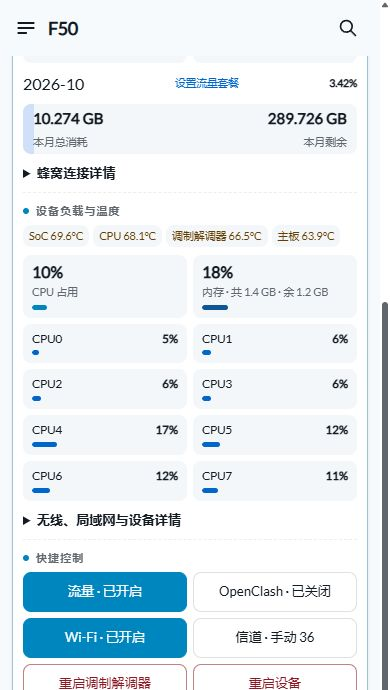
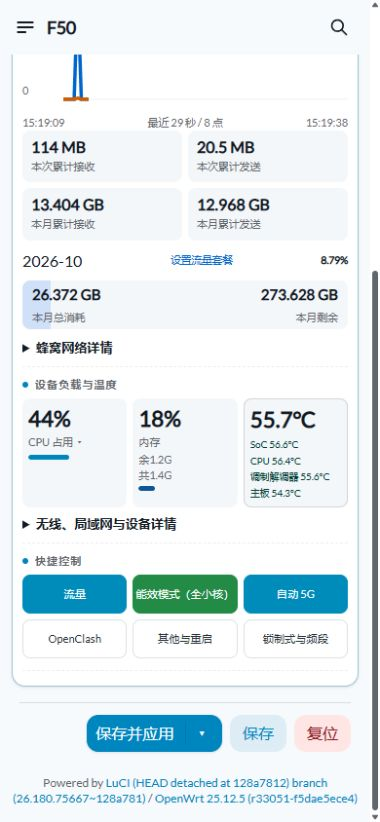
Update optional dashboard with compact mobile layout and power modes

diff --git a/extras/dashboard/home.js b/extras/dashboard/home.js
@@ -5,6 +5,7 @@
 'require f50quota5 as F50Quota';
 'require f50channel as F50Channel';
 'require f50openclash as F50OpenClash';
+'require f50power as F50Power';
 
 /* MU300 status dashboard -- the LuCI landing page (menu.d hangs it at admin/home).
  *
@@ -74,6 +75,7 @@ return view.extend({
 		this._channelDispose = F50Channel.mount(root);
 		this._quotaDispose = F50Quota.mount(root);
 		this._openclashDispose = F50OpenClash.mount(root);
+		this._powerDispose = F50Power.mount(root);
 		var self = this;
 		var intervalMs = DEFAULT_POLL_S * 1000;
 		var config = L.resolveDefault(uci.load('unisoc_modem')).then(function() {
@@ -103,6 +105,7 @@ return view.extend({
 		if (this._channelDispose) this._channelDispose();
 		if (this._quotaDispose) this._quotaDispose();
 		if (this._openclashDispose) this._openclashDispose();
+		if (this._powerDispose) this._powerDispose();
 	},
 
 	html: function() {
@@ -125,7 +128,7 @@ return view.extend({
 <div class="mud-card mud-body">
 
 <div class="mud-sec">
-  <h3>${_('Link & traffic')}</h3>
+  <h3>流量</h3>
   <div class="f50-combined-chart" style="width:100%">
     <div class="f50-rate-head">
       <div class="f50-rate-download"><b id="mud-dl">--</b><span>下行速率</span></div>
@@ -153,6 +156,7 @@ return view.extend({
     <div>
       <div class="mud-rows">
         <div class="mud-r"><span class="mud-k">IPv4 / IPv6</span><span class="mud-v" id="mud-ip">--</span></div>
+        <div class="mud-r"><span class="mud-k">手机号</span><span class="mud-v" id="mud-phone">读取中…</span></div>
         <div class="mud-r"><span class="mud-k">APN</span><span class="mud-v" id="mud-apn">--</span></div>
         <div class="mud-r"><span class="mud-k">${_('Session duration')}</span><span class="mud-v" id="mud-sess">--</span></div>
         <div class="mud-r"><span class="mud-k">${_('Registration')}</span><span class="mud-v" id="mud-reg">--</span></div>
@@ -181,7 +185,7 @@ return view.extend({
   <div class="mud-temp" id="mud-temps"></div>
   <div class="mud-kpis" style="margin-top:8px">
     <div class="mud-kpi"><b id="mud-cpu">--</b><span>${_('CPU usage')}</span><div class="mud-meter"><i id="mud-cpu-bar" style="background:var(--brand,var(--primary,#3b82f6))"></i></div></div>
-    <div class="mud-kpi"><b id="mud-ram">--</b><span>${_('Memory')} · <span class="mud-sub" id="mud-ram-sub">--</span></span><div class="mud-meter"><i id="mud-ram-bar" style="background:var(--info,#0ea5e9)"></i></div></div>
+    <div class="mud-kpi"><b id="mud-ram">--</b><span>${_('Memory')}<span class="mud-sub" id="mud-ram-sub">--</span></span><div class="mud-meter"><i id="mud-ram-bar" style="background:var(--info,#0ea5e9)"></i></div></div>
     <div class="mud-kpi"><b id="mud-disk">--</b><span>${_('Storage')}</span><div class="mud-meter"><i id="mud-disk-bar" style="background:var(--warning,#f59e0b)"></i></div></div>
     <div class="mud-kpi" id="mud-batt-kpi" style="display:none"><b id="mud-batt">--</b><span id="mud-batt-l">${_('Battery')}</span></div>
   </div>
@@ -226,9 +230,12 @@ return view.extend({
 
 <div class="mud-sec">
   <h3>${_('Quick controls')}</h3>
-  <div class="mud-ctl" style="grid-template-columns:repeat(auto-fit,minmax(150px,1fr))">
+  <div class="mud-ctl f50-primary-controls">
     <button class="mud-btn" id="mud-btn-data">流量开关</button>
+    <button class="mud-btn" id="mud-btn-power">温控模式</button>
+    <button class="mud-btn" id="mud-btn-5g">自动 5G</button>
     <button class="mud-btn" id="mud-btn-openclash" aria-pressed="false">OpenClash · 读取状态…</button>
+    <button class="mud-btn" id="mud-btn-other" aria-expanded="false">其他与重启</button>
     <button class="mud-btn" id="mud-btn-wifi">Wi-Fi 开关</button>
     <button class="mud-btn" id="mud-btn-channel">信道设置</button>
     <button class="mud-btn warn" id="mud-btn-modem">${_('Restart modem')}</button>
@@ -305,18 +312,83 @@ return view.extend({
    var d=E('details',{class:'f50-details',style:'margin:16px 0'},[E('summary',{style:'cursor:pointer;font-weight:600'},title)]);
    before.parentNode.insertBefore(d,before); nodes.forEach(function(n){d.appendChild(n);}); return d;
   }
-  var secs=root.querySelectorAll('.mud-body > .mud-sec'),link=secs[0],device=secs[1];
+  var secs=root.querySelectorAll('.mud-body > .mud-sec'),link=secs[0],device=secs[1],quick=secs[2],locks=secs[3];
+  var heroRight=root.querySelector('.mud-hero-r');
+  heroRight.prepend(E('div',{class:'f50-signal-title'},'信号详情'));
   var qci=root.querySelector('#mud-qci').parentNode;
-  qci.style.cssText='margin:8px 0;font-size:1.05em';
-  link.insertBefore(qci,link.querySelector('.f50-combined-chart'));
-  var cols=link.querySelector('.mud-cols');wrap([cols],'蜂窝连接详情',cols);
+  qci.classList.add('f50-qci');heroRight.appendChild(qci);
+  var cols=link.querySelector('.mud-cols');var cellLine=root.querySelector('#mud-cellline');cellLine.replaceWith(E('div',{class:'f50-hero-band',id:'mud-hero-band'},'--'));cols.prepend(E('div',{class:'f50-cell-detail'},[E('b',{},'基站与小区'),cellLine]));wrap([cols],'蜂窝网络详情',cols);
   device.querySelector('h3').textContent='设备负载与温度';
-  var kpis=device.querySelector('.mud-kpis'),extra=E('div',{class:'mud-kpis',style:'margin-top:12px'});
+  var kpis=device.querySelector('.mud-kpis'),extra=E('div',{class:'mud-kpis'});
   ['disk','batt'].forEach(function(id){extra.appendChild(root.querySelector('#mud-'+id).parentNode);});
-  kpis.insertAdjacentElement('afterend',E('div',{id:'mud-cpu-cores',class:'f50-core-grid','aria-label':'各 CPU 核心占用'}));
-  var freq=root.querySelector('#mud-freqs'),dcols=device.querySelector('.mud-cols'),leases=root.querySelector('#mud-leases'),android=root.querySelector('#mud-btn-android').parentNode;
-  var details=wrap([extra,freq,dcols,leases,android],'无线、局域网与设备详情',freq);
-  var heroRight=root.querySelector('.mud-hero-r');wrap([heroRight],'信号详情',heroRight);
+  var temp=E('div',{class:'mud-kpi f50-average-temp'},[E('b',{id:'mud-temp-average'},'--'),E('span',{},'')]);
+  kpis.appendChild(temp);
+  var temps=root.querySelector('#mud-temps');temp.appendChild(temps);
+  var cores=E('div',{id:'mud-cpu-cores',class:'f50-core-grid','aria-label':'各 CPU 核心占用'});
+  var freq=root.querySelector('#mud-freqs');
+  var cpuDetails=E('div',{id:'f50-cpu-details',hidden:true,class:'f50-cpu-details'},[cores,freq]);
+  kpis.insertAdjacentElement('afterend',cpuDetails);
+  var cpuCard=root.querySelector('#mud-cpu').parentNode;
+  cpuCard.setAttribute('role','button');cpuCard.setAttribute('tabindex','0');cpuCard.setAttribute('aria-expanded','false');cpuCard.setAttribute('aria-controls','f50-cpu-details');cpuCard.classList.add('f50-cpu-toggle');
+  cpuCard.onclick=function(){cpuDetails.hidden=!cpuDetails.hidden;cpuCard.setAttribute('aria-expanded',String(!cpuDetails.hidden));};
+  cpuCard.onkeydown=function(e){if(e.key==='Enter'||e.key===' '){e.preventDefault();cpuCard.click();}};
+  var dcols=device.querySelector('.mud-cols'),leases=root.querySelector('#mud-leases'),android=root.querySelector('#mud-btn-android').parentNode;
+  wrap([extra,dcols,leases,android],'无线、局域网与设备详情',dcols);
+  var other=E('div',{id:'f50-other-controls',class:'mud-ctl f50-other-controls',hidden:true});quick.appendChild(other);
+  ['wifi','channel','modem','reboot','android'].forEach(function(id){other.appendChild(root.querySelector('#mud-btn-'+id));});android.remove();
+  var otherBtn=root.querySelector('#mud-btn-other');otherBtn.setAttribute('aria-controls','f50-other-controls');
+  otherBtn.onclick=function(){other.hidden=!other.hidden;otherBtn.setAttribute('aria-expanded',String(!other.hidden));};
+  var lockTable=locks.querySelector('.mud-scroll');locks.querySelector('h3').remove();
+  var lockContent=E('div',{id:'f50-lock-details',hidden:true},[E('a',{class:'mud-btn',href:L.url('admin','modem','locks'),style:'display:inline-block;margin:6px 0'},'设置制式与频段'),lockTable]);
+  var lockBtn=E('button',{class:'mud-btn',id:'mud-btn-locks','aria-expanded':'false','aria-controls':'f50-lock-details'},'锁制式与频段');
+  root.querySelector('.f50-primary-controls').appendChild(lockBtn);locks.appendChild(lockContent);
+  lockBtn.onclick=function(){lockContent.hidden=!lockContent.hidden;lockBtn.setAttribute('aria-expanded',String(!lockContent.hidden));};
+  root.appendChild(E('style',{},`
+   .f50-home [hidden]{display:none!important}
+   .f50-home .mud-hero{align-items:flex-start;display:flex;flex-wrap:nowrap}
+   .f50-home .mud-hero-l{flex:1 1 52%;min-width:0}
+   .f50-home .mud-hero-r{flex:1 1 48%;min-width:0;text-align:right;flex-direction:column;align-items:flex-end;gap:5px;padding-top:0}
+   .f50-home .f50-signal-title{font-size:.78rem;font-weight:750;line-height:1.2;margin-bottom:5px;white-space:nowrap}
+   .f50-home .f50-hero-band{font-size:.8rem;color:var(--text-muted,#666);margin-top:4px}
+   .f50-home .f50-cell-detail{padding:4px 0;grid-column:1/-1}
+   .f50-home .f50-cell-detail .mud-cellline{font-size:.8rem;margin-top:4px;overflow-wrap:anywhere}
+   .f50-home .f50-qci{font-size:1rem;justify-content:flex-end;gap:9px;margin-top:5px}
+   .f50-home .mud-hero-r .mud-rsrp{font-size:1.7rem;line-height:1.2}
+   .f50-home .mud-hero-r .mud-chips{justify-content:flex-end;gap:4px;flex-wrap:wrap}
+   .f50-home .mud-hero-r .mud-chip{font-size:.7rem;padding:3px 5px}
+   .f50-home .mud-hero-l .mud-cellline{overflow-wrap:anywhere;font-size:.72rem}
+   .f50-home .mud-sec:nth-child(2)>.mud-kpis{grid-template-columns:repeat(3,minmax(0,1fr));margin-top:0!important}
+   .f50-home .mud-sec:nth-child(2)>.mud-kpis b{font-size:1.4rem}
+   .f50-home .f50-average-temp{border:1px solid var(--border-color,rgba(127,127,127,.28));border-radius:8px}
+   .f50-home .f50-cpu-toggle{cursor:pointer}
+   .f50-home .f50-cpu-toggle>span:after{content:' ▾'}
+   .f50-home .f50-cpu-toggle[aria-expanded=true]>span:after{content:' ▴'}
+   .f50-home #mud-ram-sub{display:block}
+   .f50-home #mud-temps{display:grid;grid-template-columns:1fr;gap:2px;margin:4px 0 0}
+   .f50-home #mud-temps span{display:block;font-size:.65rem;padding:0;border:0;text-align:left;white-space:nowrap}
+   .f50-home .f50-other-controls{margin-top:6px;grid-template-columns:repeat(2,minmax(0,1fr))}
+   .f50-home .f50-primary-controls{grid-template-columns:repeat(6,minmax(0,1fr))}
+   .f50-home .mud-ctl .mud-btn{background:#fff;color:#263238;border-color:#dce1e5}
+   .f50-home .mud-ctl .mud-btn.on,.f50-home .mud-ctl .mud-btn[aria-pressed=true],.f50-home .mud-ctl .mud-btn[aria-expanded=true]{background:#008cba;border-color:#008cba;color:#fff}
+   .f50-home #mud-btn-power{white-space:normal;overflow-wrap:anywhere;line-height:1.25}
+   .f50-home #mud-btn-power[data-mode=performance]{background:#d63b3b;border-color:#d63b3b;color:#fff}
+   .f50-home #mud-btn-power[data-mode=eco]{background:#238b45;border-color:#238b45;color:#fff}
+   .f50-home #mud-btn-5g[data-mode="4g"]{background:#238b45;border-color:#238b45;color:#fff}
+   @media(max-width:600px){
+    .f50-home .f50-primary-controls{grid-template-columns:repeat(3,minmax(0,1fr))!important}
+    .f50-home .f50-primary-controls>.mud-btn{grid-column:auto;padding-left:2px;padding-right:2px;font-size:.7rem;min-width:0}
+    .f50-home .mud-hero-l{flex-basis:52%}
+    .f50-home .mud-hero-r{flex-basis:48%}
+    .f50-home .f50-signal-title{font-size:.78rem}
+    .f50-home .mud-hero-r .mud-rsrp{font-size:1.7rem}
+    .f50-home .mud-hero-r .mud-chips{gap:3px}
+    .f50-home .mud-sec:nth-child(2)>.mud-kpis .mud-kpi{padding:7px 6px}
+    .f50-home .mud-sec:nth-child(2)>.mud-kpis span{font-size:.68rem}
+    .f50-home #mud-ram-sub{display:block;overflow-wrap:anywhere}
+    .f50-home #mud-temps{grid-template-columns:1fr}
+    .f50-home #mud-temps span{font-size:.62rem}
+   }
+  `));
  },
  drawRates: function() {
   var el=this._root.querySelector('#mud-rate-chart'),self=this;
@@ -514,7 +586,7 @@ return view.extend({
 			var plmn5 = imsi.substring(0, 5), plmn6 = imsi.substring(0, 6);
 			oper = M.PLMN_CN[plmn5] || M.PLMN_CN[plmn6] || plmn5;
 		}
-		M.set('op', score != null ? _('%s · Signal %s %s/10').format(oper, label, score.toFixed(1)) : _('%s · Signal %s').format(oper, label));
+		M.set('op', oper.replace('中国广电','广电'));var shortBands=[];if(c && c.nr && c.nr.band)shortBands.push('n'+c.nr.band+(c.nr.bw_mhz?' · '+c.nr.bw_mhz+' MHz':''));if(c && c.lte && c.lte.band)shortBands.push('B'+c.lte.band);M.set('hero-band',shortBands.join(' / ') || '等待网络');
 
 		var cl = [];
 		if (c && c.nr && c.nr.band) cl.push('n' + c.nr.band + (c.nr.bw_mhz ? ' · ' + c.nr.bw_mhz + ' MHz' : '') + ' · PCI ' + c.nr.pci + ' · ARFCN ' + c.nr.arfcn);
@@ -620,6 +692,8 @@ return view.extend({
 			: '';
 
 		var t = i.temps || {};
+		var tempValues=[t.soc,t.cpu,t.modem,t.board];
+		M.set('temp-average',tempValues.every(function(v){return v!=null && Number.isFinite(Number(v));})?(tempValues.reduce(function(a,v){return a+Number(v);},0)/4).toFixed(1)+'°C':'--');
 		M.v('temps').innerHTML = [ [ 'SoC', t.soc ], [ 'CPU', t.cpu ], [ _('Modem'), t.modem ], [ _('Board'), t.board ] ]
 			.filter(function(x) { return x[1] != null; })
 			.map(function(x) {
@@ -642,9 +716,9 @@ return view.extend({
 			var total = prev ? core.total - prev.total : 0, idle = prev ? core.idle - prev.idle : 0;
 			if (total > 0 && idle >= 0) corePercent[core.id] = Math.max(0, Math.min(100, Math.round((total-idle)*100/total)));
 			else if (!prev || total < 0 || idle < 0) corePercent[core.id] = null;
-			var value = corePercent[core.id];
+			var value = corePercent[core.id], offline = core.online === false || core.online === 0;
 			return E('div', {class:'f50-core'}, [
-				E('div',{class:'f50-core-head'},[E('span',{},core.id.toUpperCase()),E('b',{},value == null ? '—' : value+'%')]),
+				E('div',{class:'f50-core-head'},[E('span',{},core.id.toUpperCase()),E('b',{},offline ? '已关闭' : value == null ? '—' : value+'%')]),
 				E('div',{class:'mud-meter'},E('i',{style:'width:'+(value || 0)+'%;background:var(--f50-dl,#0066cc)'}))
 			]);
 		}));
@@ -661,7 +735,7 @@ return view.extend({
 		if (i.mem && i.mem.total_kb) {
 			var used = i.mem.total_kb - i.mem.avail_kb, pct = Math.round(used * 100 / i.mem.total_kb);
 			M.set('ram', pct + '%'); M.v('ram-bar').style.width = pct + '%';
-			M.set('ram-sub', _('Total %s · free %s').format(M.fmtBytes(i.mem.total_kb * 1024), M.fmtBytes(i.mem.avail_kb * 1024)));
+			var ramSub=this._root.querySelector('#mud-ram-sub'); ramSub.replaceChildren(E('span',{style:'display:block'},'余'+(i.mem.avail_kb/1048576).toFixed(1)+'G'),E('span',{style:'display:block'},'共'+(i.mem.total_kb/1048576).toFixed(1)+'G'));
 		}
 		if (i.storage && i.storage.total_kb) {
 			var pct2 = Math.round(i.storage.used_kb * 100 / i.storage.total_kb);
@@ -696,7 +770,7 @@ return view.extend({
 		if (androidBtn) androidBtn.style.display = i.capabilities && i.capabilities.dualboot ? '' : 'none';
 
 		var b;
-		b = M.v('btn-data'); b.className = 'mud-btn' + (w.up ? ' on' : ''); b.textContent = '流量 · ' + (w.up ? '已开启' : '已关闭'); b.setAttribute('aria-pressed', w.up ? 'true' : 'false');
-		b = M.v('btn-wifi'); b.className = 'mud-btn' + (wf.up ? ' on' : ''); b.textContent = 'Wi-Fi · ' + (wf.up ? '已开启' : '已关闭'); b.setAttribute('aria-pressed', wf.up ? 'true' : 'false');
+		b = M.v('btn-data'); b.className = 'mud-btn' + (w.up ? ' on' : ''); b.textContent = '流量'; b.setAttribute('aria-pressed', w.up ? 'true' : 'false');
+		b = M.v('btn-wifi'); b.className = 'mud-btn' + (wf.up ? ' on' : ''); b.textContent = 'Wi-Fi'; b.setAttribute('aria-pressed', wf.up ? 'true' : 'false');
 	}
 });

diff --git a/extras/dashboard/f50power.js b/extras/dashboard/f50power.js
@@ -1,0 +1,26 @@
+'use strict';
+'require rpc';
+'require ui';
+'require baseclass';
+'require mu300.common as M';
+var get=rpc.declare({object:'f50power',method:'status'});
+var set=rpc.declare({object:'f50power',method:'set',params:['mode']});
+return baseclass.extend({mount:function(root){
+ var btn=root.querySelector('#mud-btn-power'),nr=root.querySelector('#mud-btn-5g'),timer,disposed=false,waiting=false,countdown=null,deadline=0,targetMode='auto',lastError='';
+ function refresh(){return get().then(function(s){
+  btn.textContent=s.busy?'温控模式 · 切换中…':s.mode==='eco'?'能效模式（全小核）':'性能模式（8核）';
+  btn.title=s.mode==='eco'?'4 个小核，最高 '+(Number(s.max_khz)/1000000).toFixed(3)+' GHz':'8 核，按负载动态调频';
+  btn.dataset.mode=s.mode==='eco'?'eco':'performance'; btn.disabled=!!s.busy; btn.setAttribute('aria-pressed',s.mode==='eco'?'true':'false');
+  root.querySelector('#mud-phone').textContent=s.phone || 'SIM 未提供';
+  if(s.error && s.error!==lastError)ui.addNotification(null,E('p',{},s.error));lastError=s.error;
+  return M.callLockGet();
+ }).then(function(s){var label=s.mode && s.mode.label;if(waiting && Date.now()>=deadline && label===targetMode){waiting=false;clearInterval(countdown);countdown=null;}nr.textContent=waiting?(Date.now()<deadline?'切换 '+Math.max(0,Math.ceil((deadline-Date.now())/1000))+'s':'确认中…'):label==='4g'?'4G 模式':'自动 5G';nr.dataset.mode=label || 'auto';nr.disabled=waiting;nr.setAttribute('aria-pressed',label==='4g'?'false':'true');});}
+ btn.onclick=function(){btn.disabled=true;get().then(function(s){return set(s.mode==='eco'?'performance':'eco');}).then(function(r){if(!r.ok)throw new Error(r.error);return refresh();}).catch(function(e){ui.addNotification(null,E('p',{},e.message));btn.disabled=false;});};
+ nr.onclick=function(){targetMode=nr.dataset.mode==='4g'?'auto':'4g';nr.disabled=true;waiting=true;deadline=Date.now()+10000;nr.textContent='切换 10s';
+  countdown=setInterval(function(){var left=Math.max(0,Math.ceil((deadline-Date.now())/1000));nr.textContent='切换 '+left+'s';if(!left){clearInterval(countdown);countdown=null;nr.textContent='确认中…';}},1000);
+  M.callLockSet('mode',targetMode).then(function(r){if(!r.ok)throw new Error(M.errText(r));setTimeout(function(){clearInterval(countdown);countdown=null;if(!disposed)refresh();},Math.max(0,deadline-Date.now()));}).catch(function(e){waiting=false;clearInterval(countdown);countdown=null;nr.disabled=false;refresh();ui.addNotification(null,E('p',{},e.message));});
+ };
+ function schedule(){timer=setTimeout(function(){if(!disposed && document.documentElement.contains(root))refresh().catch(function(){}).finally(schedule);},5000);}
+ refresh().catch(function(e){ui.addNotification(null,E('p',{},e.message));}).finally(schedule);
+ return function(){disposed=true;clearTimeout(timer);clearInterval(countdown);};
+}});

diff --git a/extras/dashboard/f50openclash.js b/extras/dashboard/f50openclash.js
@@ -14,9 +14,8 @@ return baseclass.extend({
             return status().then(function(s) {
                 state = s;
                 button.className = 'mud-btn' + (s.running ? ' on' : '');
-                button.disabled = waiting || s.busy || s.installed === false;
-                button.textContent = s.busy ? ('OpenClash · ' + (s.target === '1' ? '开启中…' : '关闭中…')) : 'OpenClash · ' + (s.running ? '已开启' : '已关闭');
-                if (s.installed === false) button.textContent = 'OpenClash · 未安装';
+                button.disabled = waiting || s.busy;
+                button.textContent = s.busy ? ('OpenClash · ' + (s.target === '1' ? '开启中…' : '关闭中…')) : 'OpenClash';
                 button.title = s.running ? '点击关闭 OpenClash，改为直连上网' : '点击开启 OpenClash';
                 button.setAttribute('aria-pressed', s.running ? 'true' : 'false');
                 if (s.error && s.error !== lastError) ui.addNotification(null, E('p', {}, s.error));

diff --git a/docs/13-optional-dashboard.md b/docs/13-optional-dashboard.md
@@ -10,7 +10,7 @@
 本补丁匹配 v2026.10.11、OpenWrt 25.12.5、厂商 5.4 内核、sipa_eth0、radio0 / ap0 的 5GHz 无线。版本或接口不同，先适配差异；不要直接覆盖不匹配的页面。
 电脑互联网继续走主路由网线，F50 USB 负责 SSH 管理。使用已有 SSH 配置，不公开密码、私钥、订阅或备份。
 下载 / 准备代码与 vnstat2 依赖，核对 extras/dashboard/SHA256SUMS，备份原页面、后台采集脚本和配置，再部署。
-保留当前密码、SSID、信道、套餐额度、历史数据库与 OpenClash 开关状态。没有安装 OpenClash 时显示“未安装”，本扩展不安装代理插件或导入订阅。
+保留当前密码、SSID、信道、套餐额度、历史数据库与 OpenClash 开关状态。没有安装 OpenClash 时保持关闭样式并提示不可用，本扩展不安装代理插件或导入订阅。
 安装后用实际浏览器验证手机布局、CPU 总占用、内存、CPU0–CPU7、上下行曲线、两组累计、套餐设置、月度历史和快捷控制；核对流量求和及百分比。
 核对自动 / 手动信道，测试后恢复原信道；重启类按钮检查确认流程，真正重启按当前任务安排。
 记录本机备份路径、恢复命令与已验证结果，在本地 F50-progress.md 勾选。界面能用后再报告完成。
@@ -18,15 +18,20 @@
 
 ## 2. 手机首页有哪些变化
 
-- **先看核心信息：** QCI、连接的基站与频段、上下行速率、温度、CPU 和内存常显；CPU0–CPU7 分别显示占用率。
+- **先看核心信息：** QCI、频段、上下行速率、温度、CPU 和内存常显；CPU 总占用、内存与四传感器平均温度常显，点击 CPU 占用展开 CPU0–CPU7 和频率；四传感器读数放在温度框内，左对齐。
 - **大字号速率：** 蓝色下行与“5G SA”使用相同字号；橙色上行放在下方，略小一号。
 - **一张双曲线：** 蓝 / 橙高对比线，3.5px 线宽；历史窗口由 40 点增到 80 点，点击或轻触查看采样时间、上下行速率。手机曲线高度 145px，纵轴三档数字、单位只显示一次。
 - **两组流量：** 先显示“本次累计接收 / 发送”，再显示“本月累计接收 / 发送”。本次从当前启动的蜂窝接口计数读取，本月来自持久化数据库。
 - **套餐进度条：** 左侧显示本月总消耗，右侧显示本月剩余；点击左侧编辑已使用，点击右侧编辑总流量。日期与百分比中间的“设置流量套餐”打开完整设置，点击日期查看月度历史。
-- **六个快捷控制：** 流量、OpenClash、Wi-Fi、信道自动 / 手动、重启调制解调器、重启设备。
-- **展开看详情：** 信号、蜂窝连接、无线 / 局域网 / 设备参数折叠；锁频、邻区锁定保留原有入口。
+- **六个快捷控制：** 手机两行各三个：第一行流量、性能 / 能效、4G / 自动 5G；第二行 OpenClash、其他与重启、锁制式与频段。桌面同顺序一行展示。
+- **状态颜色：** 流量、Wi-Fi、OpenClash 开启蓝色、关闭白色，不重复显示状态文字。性能模式（8核）红色、能效模式（全小核）绿色；自动 5G 蓝色、4G 绿色。切换制式显示 10 秒倒计时，尚未确认设置时显示“确认中”；运营商注册网络另计。
+- **更多操作：** “其他与重启”展开 Wi-Fi、信道、重启调制解调器、重启设备和切换到 Android。
+- **内存三行：** 内存、余 x.xG、共 x.xG，数值随系统更新；顶部保留占用百分比。
+- **展开看详情：** 首模块左侧显示制式、运营商简称（广电）和频段，基站、小区、PCI 与频点编号移入蜂窝详情；信号详情与 QCI 常显在右侧，标题小字号、信号强度数值与 5G SA 同字号；蜂窝连接、无线 / 局域网 / 设备参数折叠。蜂窝详情显示 SIM 提供的手机号。锁制式与频段按钮展开邻区与设置入口。
 
-手机界面的负载与快捷控制实拍：
+手机首模块与负载、快捷控制实拍：
+
+<img src="../assets/dashboard-hero.png" alt="制式、运营商、频段与信号详情" width="390">
 
 <img src="../assets/dashboard-mobile.png" alt="手机端用量、八核心占用与六个快捷控制" width="390">
 
@@ -87,7 +92,7 @@ python .\extras\dashboard\deploy.py --host f50
 
 ## 6. OpenClash 与 AdGuard Home 的可选联动
 
-这个按钮只管理已经安装、已经配置好的 OpenClash。没有安装时显示“未安装”，其他面板功能照常使用。需要安装代理时进入 [OpenClash 可选章节](06-openclash.md)。
+OpenClash 按钮只管理已经安装、已经配置好的 OpenClash。没有安装时保留白色按钮并显示状态不可用提示，其他面板功能照常使用。需要安装代理时进入 [OpenClash 可选章节](06-openclash.md)。
 
 没有运行 AdGuard Home 时，按钮调用 OpenClash 自身启动 / 停止流程。有自定义 DNS 链时，核对停止代理后直连解析能恢复。
 
@@ -107,7 +112,7 @@ uci commit f50dashboard
 
 Codex 逐项检查后，在本机清单勾选：
 
-- [ ] 360px / 390px 手机宽度没有横向溢出，CPU / 内存 / 八核心默认显示。
+- [ ] 360px / 390px 手机宽度没有横向溢出，CPU 总占用 / 内存 / 温度默认显示，点击 CPU 展开八核心。
 - [ ] 上下行两条曲线颜色、线宽、点击读数符合页面设计。
 - [ ] 本次计数对应当前启动接口；本月接收 + 发送对应数据库，未校准时等于本月总消耗。
 - [ ] 套餐总量可自己输入；保存后刷新页面，额度和已用基线仍在。
@@ -127,13 +132,25 @@ sh /root/f50-dashboard-backups/<实际目录>/restore.sh
 
 恢复脚本还原原页面、采集脚本、RPC / ACL 和配置，并恢复 vnStat 之前的启用状态；流量数据库保留，不删除历史。重新登录并强制刷新页面。界面确认可用后再按 [完整备份章节](07-backup-and-restore.md) 保存最终系统。
 
-## 8. Q&A
+## 8. 性能 / 能效模式
+
+**性能模式（8核）**开启全部核心，用 `mu300-toolkit profile balanced` 保留按负载动态调频；按钮为红色。**能效模式（全小核）**开启 CPU0–CPU3 四个小核、关闭 CPU4–CPU7 大核，调用上游 `profile eco`；按钮为绿色。本机小核最高频率为 1.105 GHz，实际以设备频率表为准。
+
+这套模式保留内核温控、电压表、蜂窝频段和 Wi-Fi 功率设置。安装只增加服务和按钮，保留既有模式；首次安装无既有模式时采用全核，用户点击后再切换。选择写入 `f50dashboard.power.mode`，开机服务恢复选择。切换失败或管理服务健康检查失败时恢复全核。
+
+本机两小核模式在当前 Wi-Fi 驱动与中断负载下接近满载，改为全小核后短时采样约 34%，页面随后约 43%–55%。这是当时负载下的观察，不是固定利用率或吞吐保证；目标是给上网与后台服务留出余量。流量大、代理规则多或单核中断繁忙时，按实际速率、延迟、逐核心负载选择全核。
+
+Codex 验收时核对 `/sys/devices/system/cpu/online`：能效为 `0-3`，性能为 `0-7`，同时检查管理页面、蜂窝连接和 Wi-Fi。不要以绿色按钮代替实际核心与联网检查。
+
+## 9. Q&A
 
 **页面出现 `factory yields invalid constructor`？** LuCI 模块要用 `baseclass.extend(...)` 返回构造器。本文模块已经按该格式实现；更新后检查浏览器实际页面，不以“文件已写入”作为完成标志。
 
 **月度统计小于本次接收？** 两者起点不同：本次是开机接口计数，本月是启用 vnStat 后的月记录。页面已分开标注；不能把不同起点的数值直接比较。需要补充套餐此前使用量时，设置本月已使用。
 
 **设置了已使用后，接收 + 发送与总消耗不完全相同？** 接收 / 发送保留自动采样值，总消耗包含手动校准差值；鼠标悬停总消耗可以查看字节数与校准标识。
+
+**硬件 2 GB，为什么显示共 1.4G？** 本机启动参数标明 2048 MB，Linux `MemTotal` 为 1,498,448 KiB（约 1.43 GiB）。设备树预留了调制解调器、共享内存、安全固件等区域，页面显示 Linux 可管理内存，硬件容量没有变化。
 
 **升级作者系统后怎样继续用？** 先核对新页面、采集脚本、RPC 与无线结构，适配本补丁再安装；升级前保留备份。不要把旧版整页覆盖到未经核对的新版本。
 

diff --git a/README.md b/README.md
@@ -194,7 +194,7 @@
 
 ### 可选：首页美化与流量套餐面板
 
-安装完成后，可以按需增加 [手机首页优化](docs/13-optional-dashboard.md)：大字号上下行速率、双曲线、本次 / 本月用量、可编辑套餐进度、八核心负载和六个快捷控制。章节提供 Codex 提示词、配套脚本、手机效果图、验收和恢复方法。
+安装完成后，可以按需增加 [手机首页优化](docs/13-optional-dashboard.md)：大字号上下行速率、双曲线、本次 / 本月用量、可编辑套餐进度、按需展开的八核心负载、四传感器温度和六个快捷控制（流量、性能 / 能效、4G / 自动 5G、OpenClash、其他与重启、锁制式与频段）。章节提供 Codex 提示词、配套脚本、手机效果图、验收和恢复方法。
 
 ## 项目与更新地址
 
